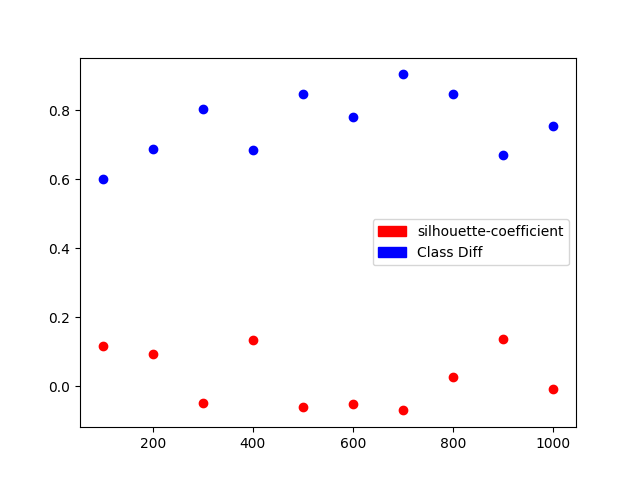
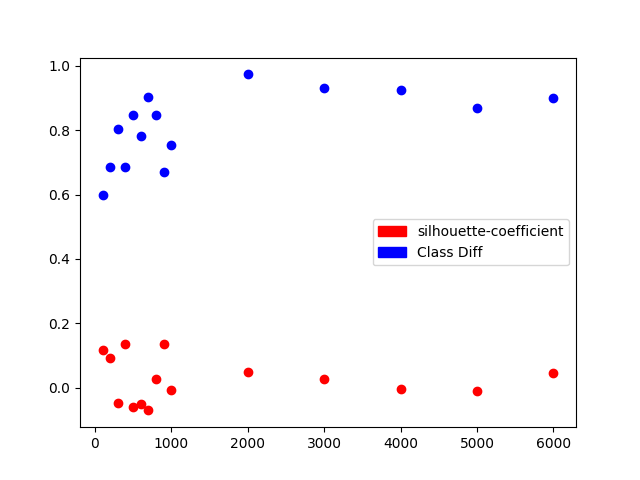
update birch sample plot with values up to 6000

diff --git a/src/plots/plot_birch_accuracy_by_num_samples.py b/src/plots/plot_birch_accuracy_by_num_samples.py
@@ -16,7 +16,7 @@ print(len(emb_array))
 print(len(labels))
 print(len(class_names))
 
-test_sizes = [100, 200, 300, 400, 500, 600, 700, 800, 900, 1000]
+test_sizes = [100, 200, 300, 400, 500, 600, 700, 800, 900, 1000, 2000, 3000, 4000, 5000, 6000]
 threshold = 0.9
 scores = []
 class_count_diffs = []
